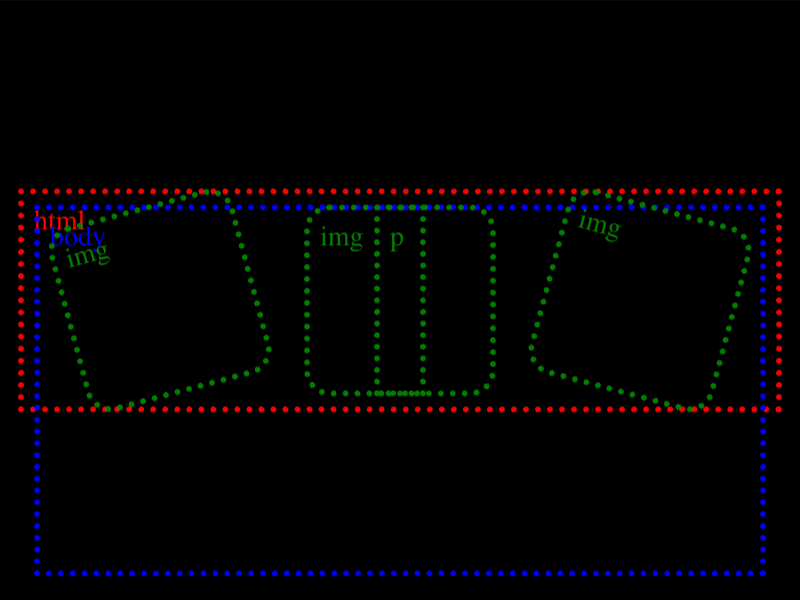
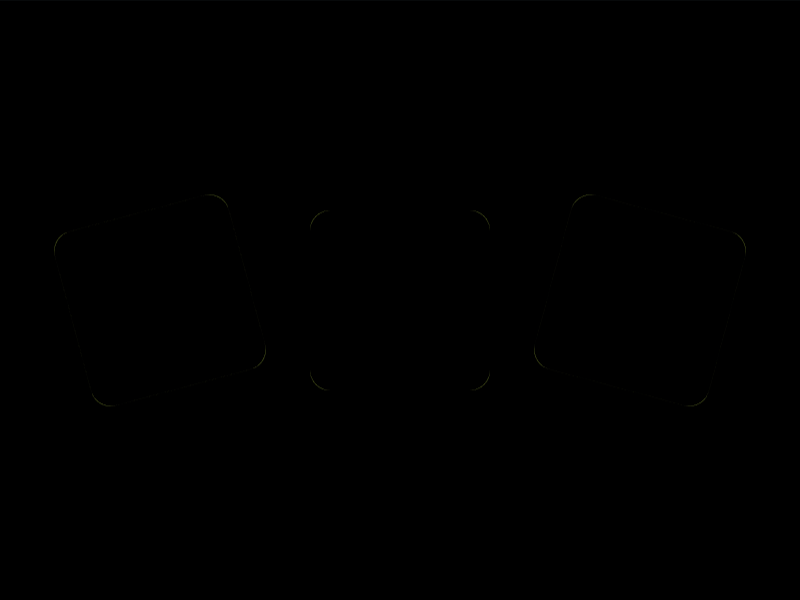
Score: 671.26, Characters: 181 (100.00% match) - CSSHub

diff --git a/Daily Targets/2026-09-06/README.md b/Daily Targets/2026-09-06/README.md
@@ -22,7 +22,7 @@ Challenge: <https://cssbattle.dev/play/WfbQAGPzXCTFkJjKBxhZ>
 ## Code
 
 ```html
-<img r=-15><img><img r=15><p r=0><style>&{margin:97 12}*{rotate:attr(r deg)}img{margin:0 15;background:#6D57C4;padding:45;border-radius:10px}p{background:#FFF;height:90;margin:-90 170
+<img r=-15><img><img r=15><p r=0><style>&{margin:97 12}img{margin:0 15;background:#6d57c4;padding:45;border-radius:11q}p{background:#fff;height:90;margin:-90 170}*{rotate:attr(r deg
 ```
 
 ## Prettified code
@@ -33,19 +33,19 @@ Challenge: <https://cssbattle.dev/play/WfbQAGPzXCTFkJjKBxhZ>
 & {
   margin: 97 12;
 }
-* {
-  rotate: attr(r deg);
-}
 img {
   margin: 0 15;
   background: #6d57c4;
   padding: 45;
-  border-radius: 10px;
+  border-radius: 11Q;
 }
 p {
   background: #fff;
   height: 90;
   margin: -90 170;
+}
+* {
+  rotate: attr(r deg);
 }
 </style>
 ```

diff --git a/README.md b/README.md
@@ -235,7 +235,7 @@ Note - I have not yet complete all the challenges.
 <li><a href="./Daily%20Targets/2026-09-03/">Sep 3, 2026</a> (176 Characters)</li>
 <li><a href="./Daily%20Targets/2026-09-04/">Sep 4, 2026</a> (133 Characters)</li>
 <li><a href="./Daily%20Targets/2026-09-05/">Sep 5, 2026</a> (130 Characters)</li>
-<li><a href="./Daily%20Targets/2026-09-06/">Sep 6, 2026</a> (183 Characters)</li>
+<li><a href="./Daily%20Targets/2026-09-06/">Sep 6, 2026</a> (181 Characters)</li>
 </ul>
 </details>
 </li>
